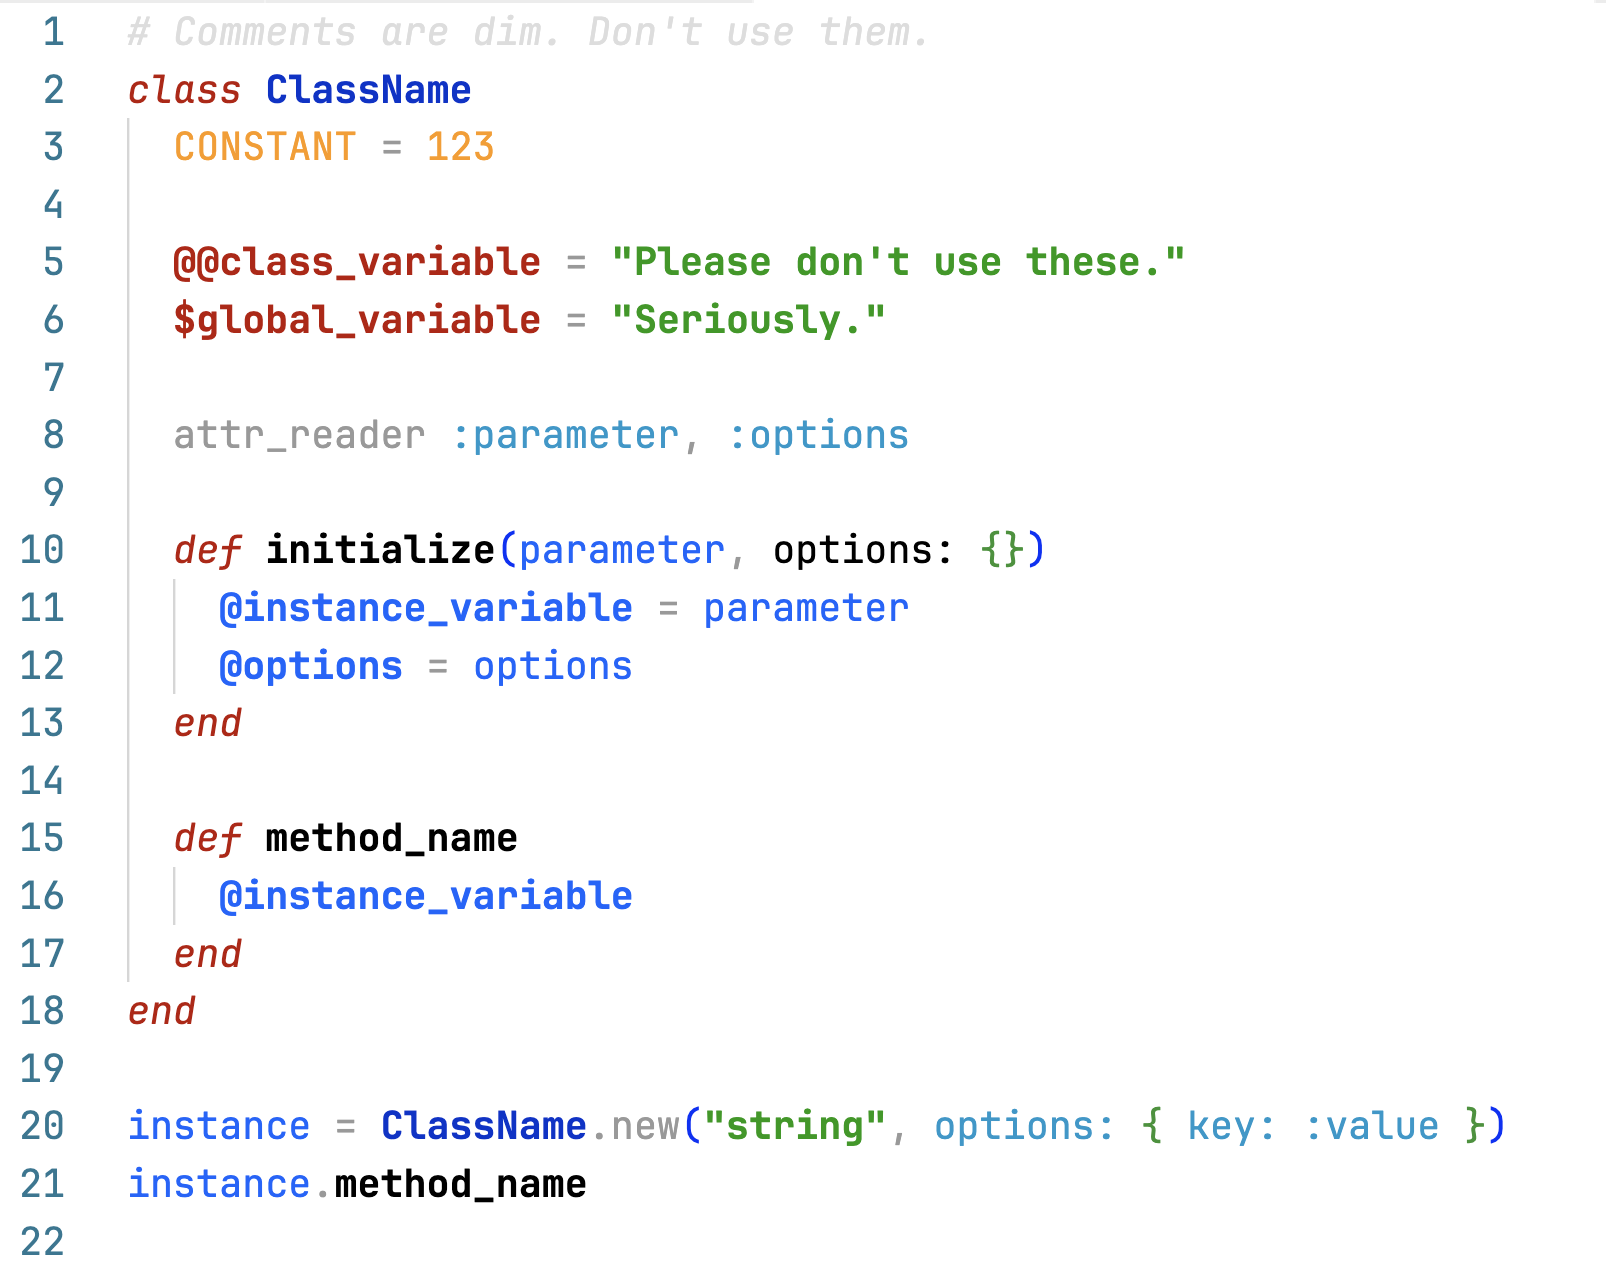
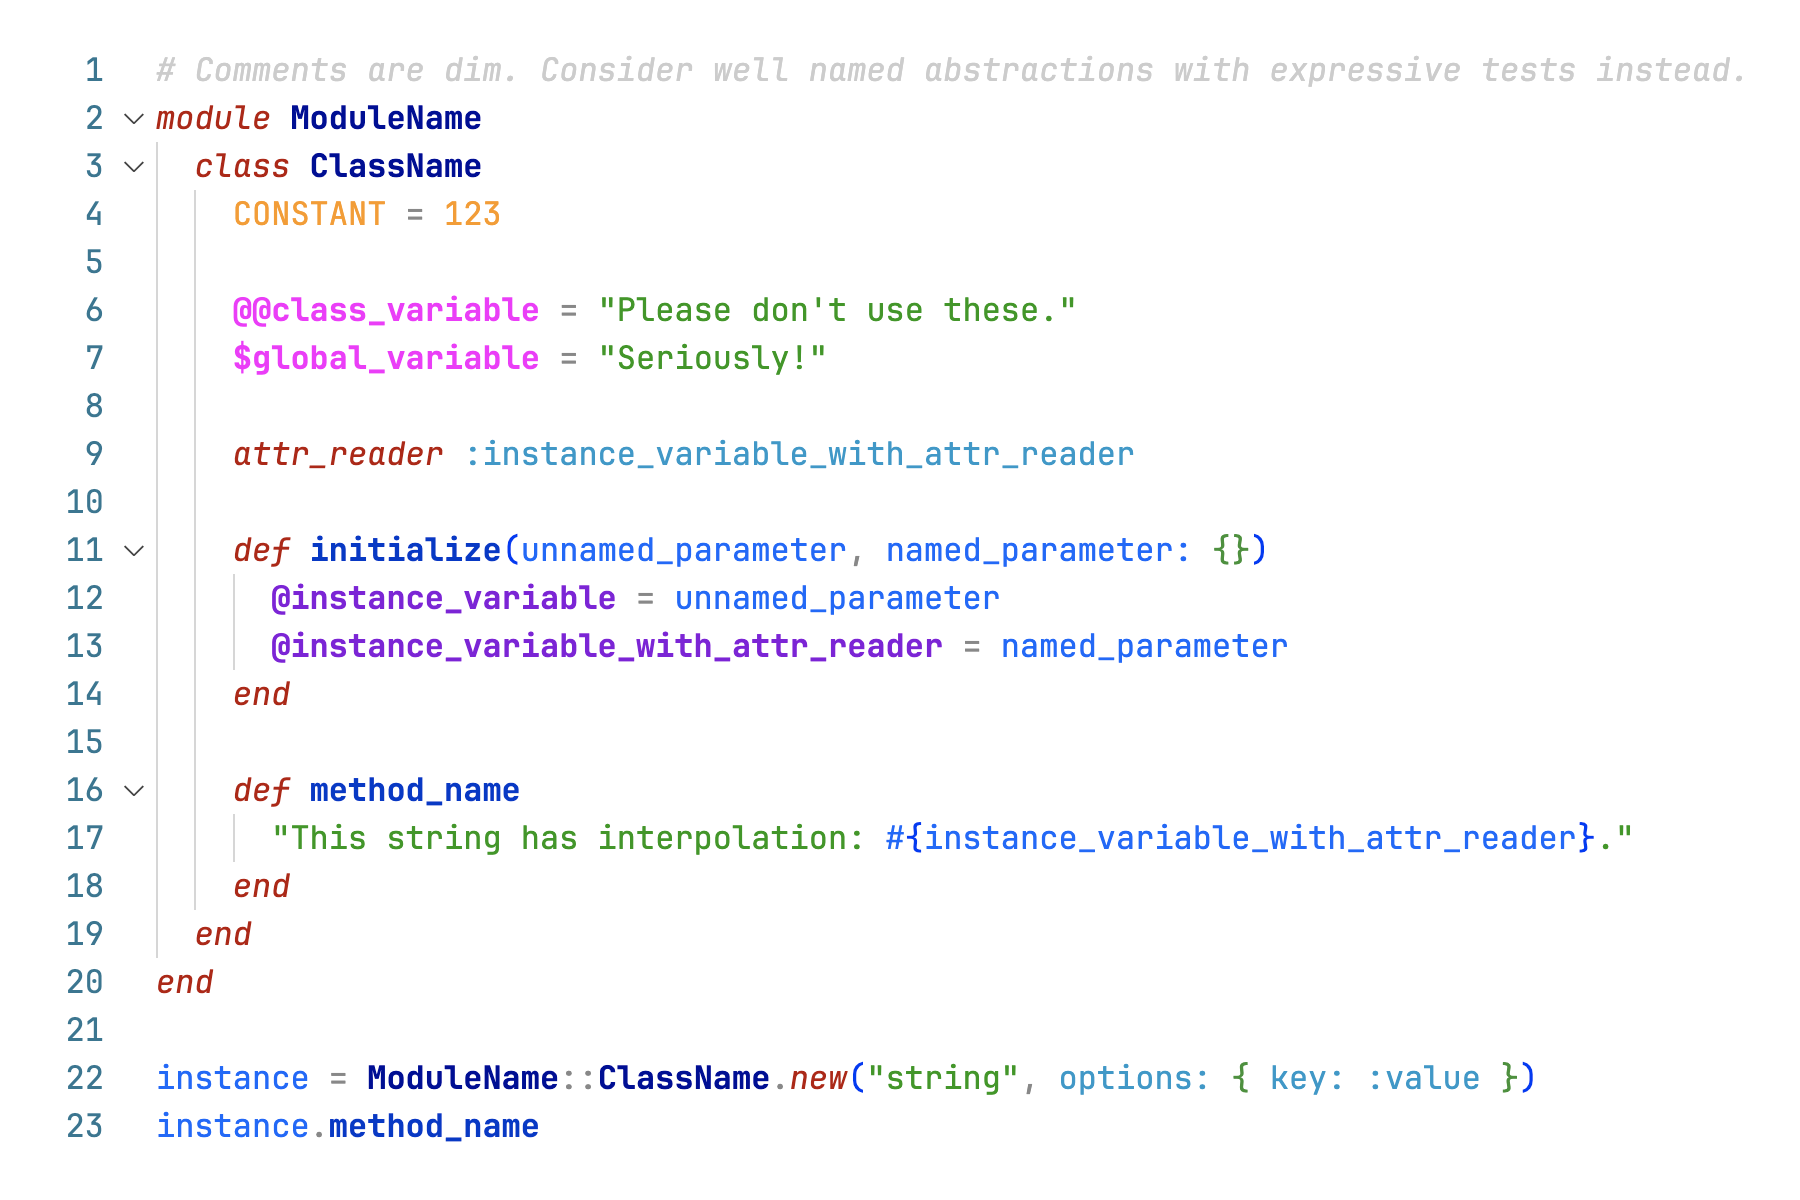
Changes token colors and styles  - Comments are less dim  - Global and class variables are in your face pink  - Instance variables are now purple  - Keywords and special methods are red italic  - Classes are now dark blue  - Methods are now medium blue

diff --git a/CHANGELOG.md b/CHANGELOG.md
@@ -2,6 +2,12 @@
 
 All notable changes to the "rubyist" extension will be documented in this file.
 
+## [1.1.0]
+
+- Comments are little less dim for readability in legacy codebases. But, keep writing well named abstractions with expressive tests anyway.
+- Instance variables are now purple to differentiate them from other concepts so they're easier to see when looking at a file.
+- Classes and methods are now dark blue rather than dark grey 'cause we think it looks better.
+
 ## [1.0.0]
 
 - Initial release
